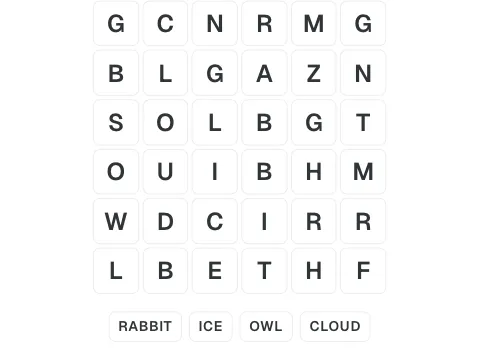
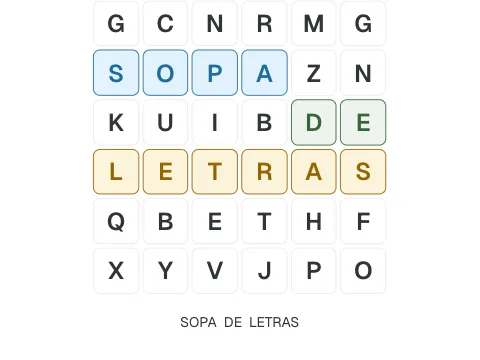
fix(games): full screen shows only the game board

diff --git a/games/src/app/core/fullscreen.ts b/games/src/app/core/fullscreen.ts
@@ -1,13 +1,15 @@
-import { afterNextRender, DOCUMENT, inject, Injectable, signal } from '@angular/core';
+import { afterNextRender, computed, DOCUMENT, inject, Injectable, signal } from '@angular/core';
 
 @Injectable({ providedIn: 'root' })
 export class Fullscreen {
   private readonly document = inject(DOCUMENT);
   private readonly supported = signal(false);
   private readonly on = signal(false);
+  private readonly board = signal<HTMLElement | null>(null);
 
   readonly isSupported = this.supported.asReadonly();
   readonly isOn = this.on.asReadonly();
+  readonly hasBoard = computed(() => this.board() !== null);
 
   constructor() {
     afterNextRender(() => {
@@ -16,11 +18,22 @@ export class Fullscreen {
     });
   }
 
+  register(board: HTMLElement): void {
+    this.board.set(board);
+  }
+
+  unregister(board: HTMLElement): void {
+    if (this.board() === board) {
+      this.board.set(null);
+    }
+  }
+
   async toggle(): Promise<void> {
+    const board = this.board();
     if (this.document.fullscreenElement) {
       await this.document.exitFullscreen().catch(() => undefined);
-    } else {
-      await this.document.documentElement.requestFullscreen({ navigationUI: 'hide' }).catch(() => undefined);
+    } else if (board) {
+      await board.requestFullscreen({ navigationUI: 'hide' }).catch(() => undefined);
     }
   }
 }

diff --git a/games/src/app/shared/game-board.ts b/games/src/app/shared/game-board.ts
@@ -3,6 +3,7 @@ import { SuStorage } from '@su-labs/core';
 import { SuThemeController } from '@su-labs/core/theme';
 import { BoardColours } from '../core/board-colours';
 import { GameThemeId, getGameTheme } from '../core/game-themes';
+import { Fullscreen } from '../core/fullscreen';
 
 const UNSAVED: SuStorage = { getItem: () => null, setItem: () => undefined, removeItem: () => undefined };
 
@@ -22,6 +23,7 @@ export class GameBoard {
 
   constructor() {
     const colours = inject(BoardColours);
+    const fullscreen = inject(Fullscreen);
     effect(() => {
       const id = this.theme() ?? colours.chosen();
       if (id) {
@@ -35,12 +37,14 @@ export class GameBoard {
     });
     const stopZoom = (event: Event): void => event.preventDefault();
     afterNextRender(() => {
+      fullscreen.register(this.element);
       for (const gesture of SAFARI_ZOOM_GESTURES) {
         this.element.addEventListener(gesture, stopZoom, { passive: false });
       }
     });
     inject(DestroyRef).onDestroy(() => {
       this.controller.destroy();
+      fullscreen.unregister(this.element);
       for (const gesture of SAFARI_ZOOM_GESTURES) {
         this.element.removeEventListener(gesture, stopZoom);
       }

diff --git a/games/src/app/app.ts b/games/src/app/app.ts
@@ -89,7 +89,11 @@ export class App {
   protected readonly admin = inject(AdminApi);
   protected readonly fullscreen = inject(Fullscreen);
   protected readonly canGoFullscreen = computed(
-    () => this.pageGame() !== null && this.fullscreen.isSupported() && this.features.canUse('fullscreen'),
+    () =>
+      this.pageGame() !== null &&
+      this.fullscreen.hasBoard() &&
+      this.fullscreen.isSupported() &&
+      this.features.canUse('fullscreen'),
   );
 
   protected readonly menuOpen = signal(false);

diff --git a/games/src/styles.scss b/games/src/styles.scss
@@ -19,6 +19,20 @@ html {
   touch-action: pan-x pan-y;
 }
 
+.game-board:fullscreen {
+  align-content: center;
+  background: var(--surface);
+  border: 0;
+  border-radius: 0;
+  overflow: auto;
+  padding: 1rem;
+
+  > * {
+    margin-inline: auto;
+    max-width: 58rem;
+  }
+}
+
 .game-board[data-theme] {
   --text: var(--su-theme-color);
   --heading: var(--su-theme-color);
